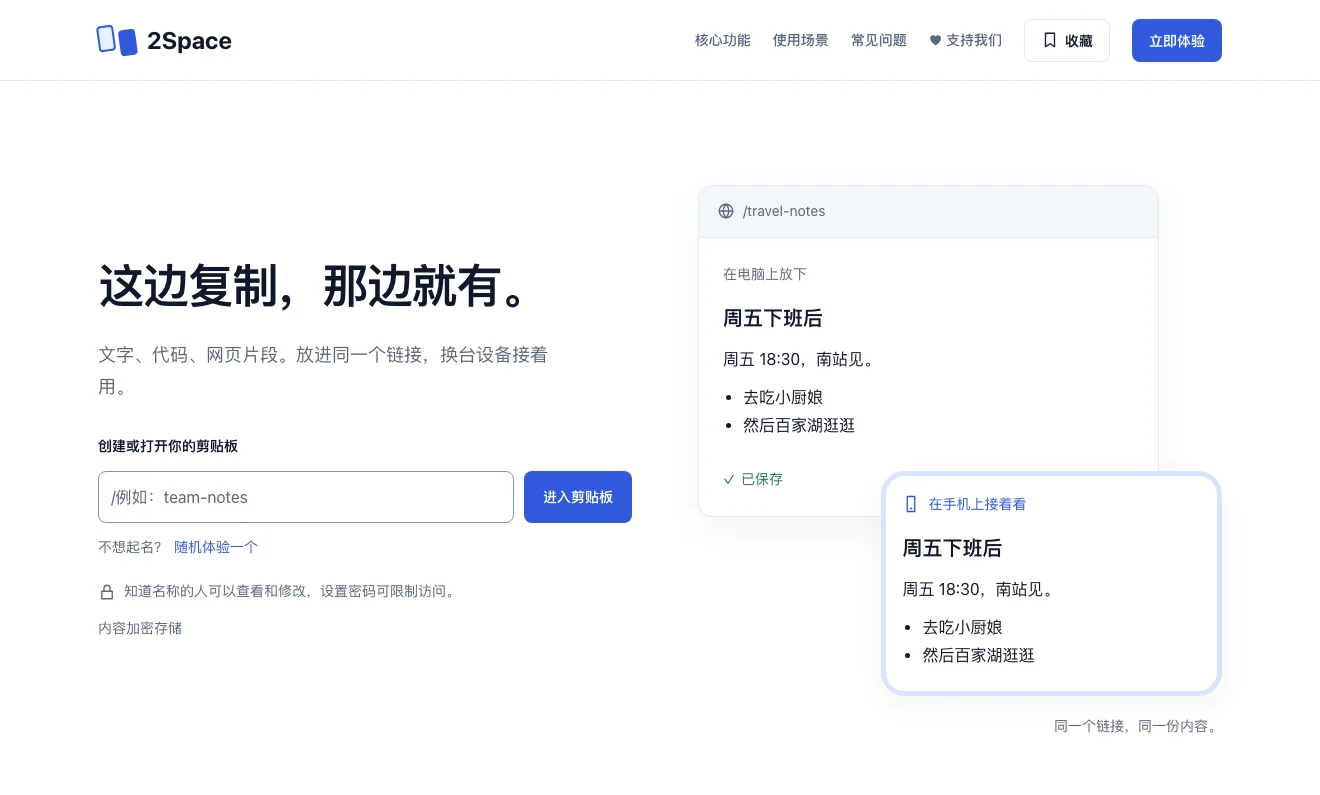
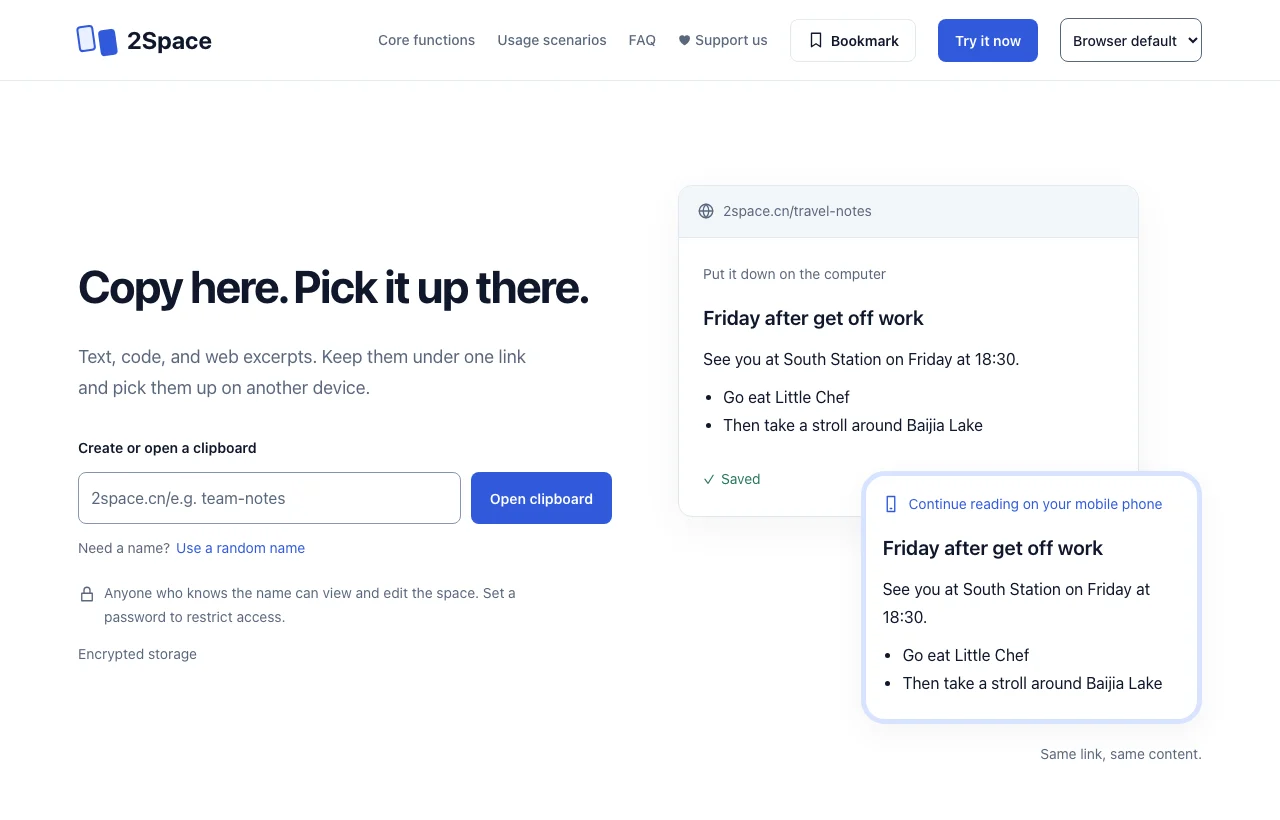
Show English home preview in both READMEs

diff --git a/README.en.md b/README.en.md
@@ -4,7 +4,9 @@ English · [简体中文](README.md)
 
 **Copy here. Pick it up there.** 2Space is a self-hosted clipboard for text, rich text, and code. Open the same named space on another device to pick up where you left off.
 
-![2Space home screen in Simplified Chinese, with a space name field and two devices showing the same note](docs/images/home.webp)
+![2Space English home screen preview showing the same note on two devices](docs/images/home.webp)
+
+_Screenshot from the multilingual development build. The current open-source app interface is in Simplified Chinese._
 
 ## Start with one command
 

diff --git a/README.md b/README.md
@@ -4,7 +4,9 @@
 
 **这边复制，那边就有。** 2Space 是可自托管的跨设备在线剪贴板。用同一个空间名在不同设备打开，随手保存文字、富文本和代码。
 
-![2Space 中文首页，左侧输入空间名，右侧展示两台设备上的同一份笔记](docs/images/home.webp)
+![2Space 英文首页预览，两台设备展示同一份笔记](docs/images/home.webp)
+
+_截图来自多语言开发版。当前开源版界面为简体中文。_
 
 ## 一键启动
 
